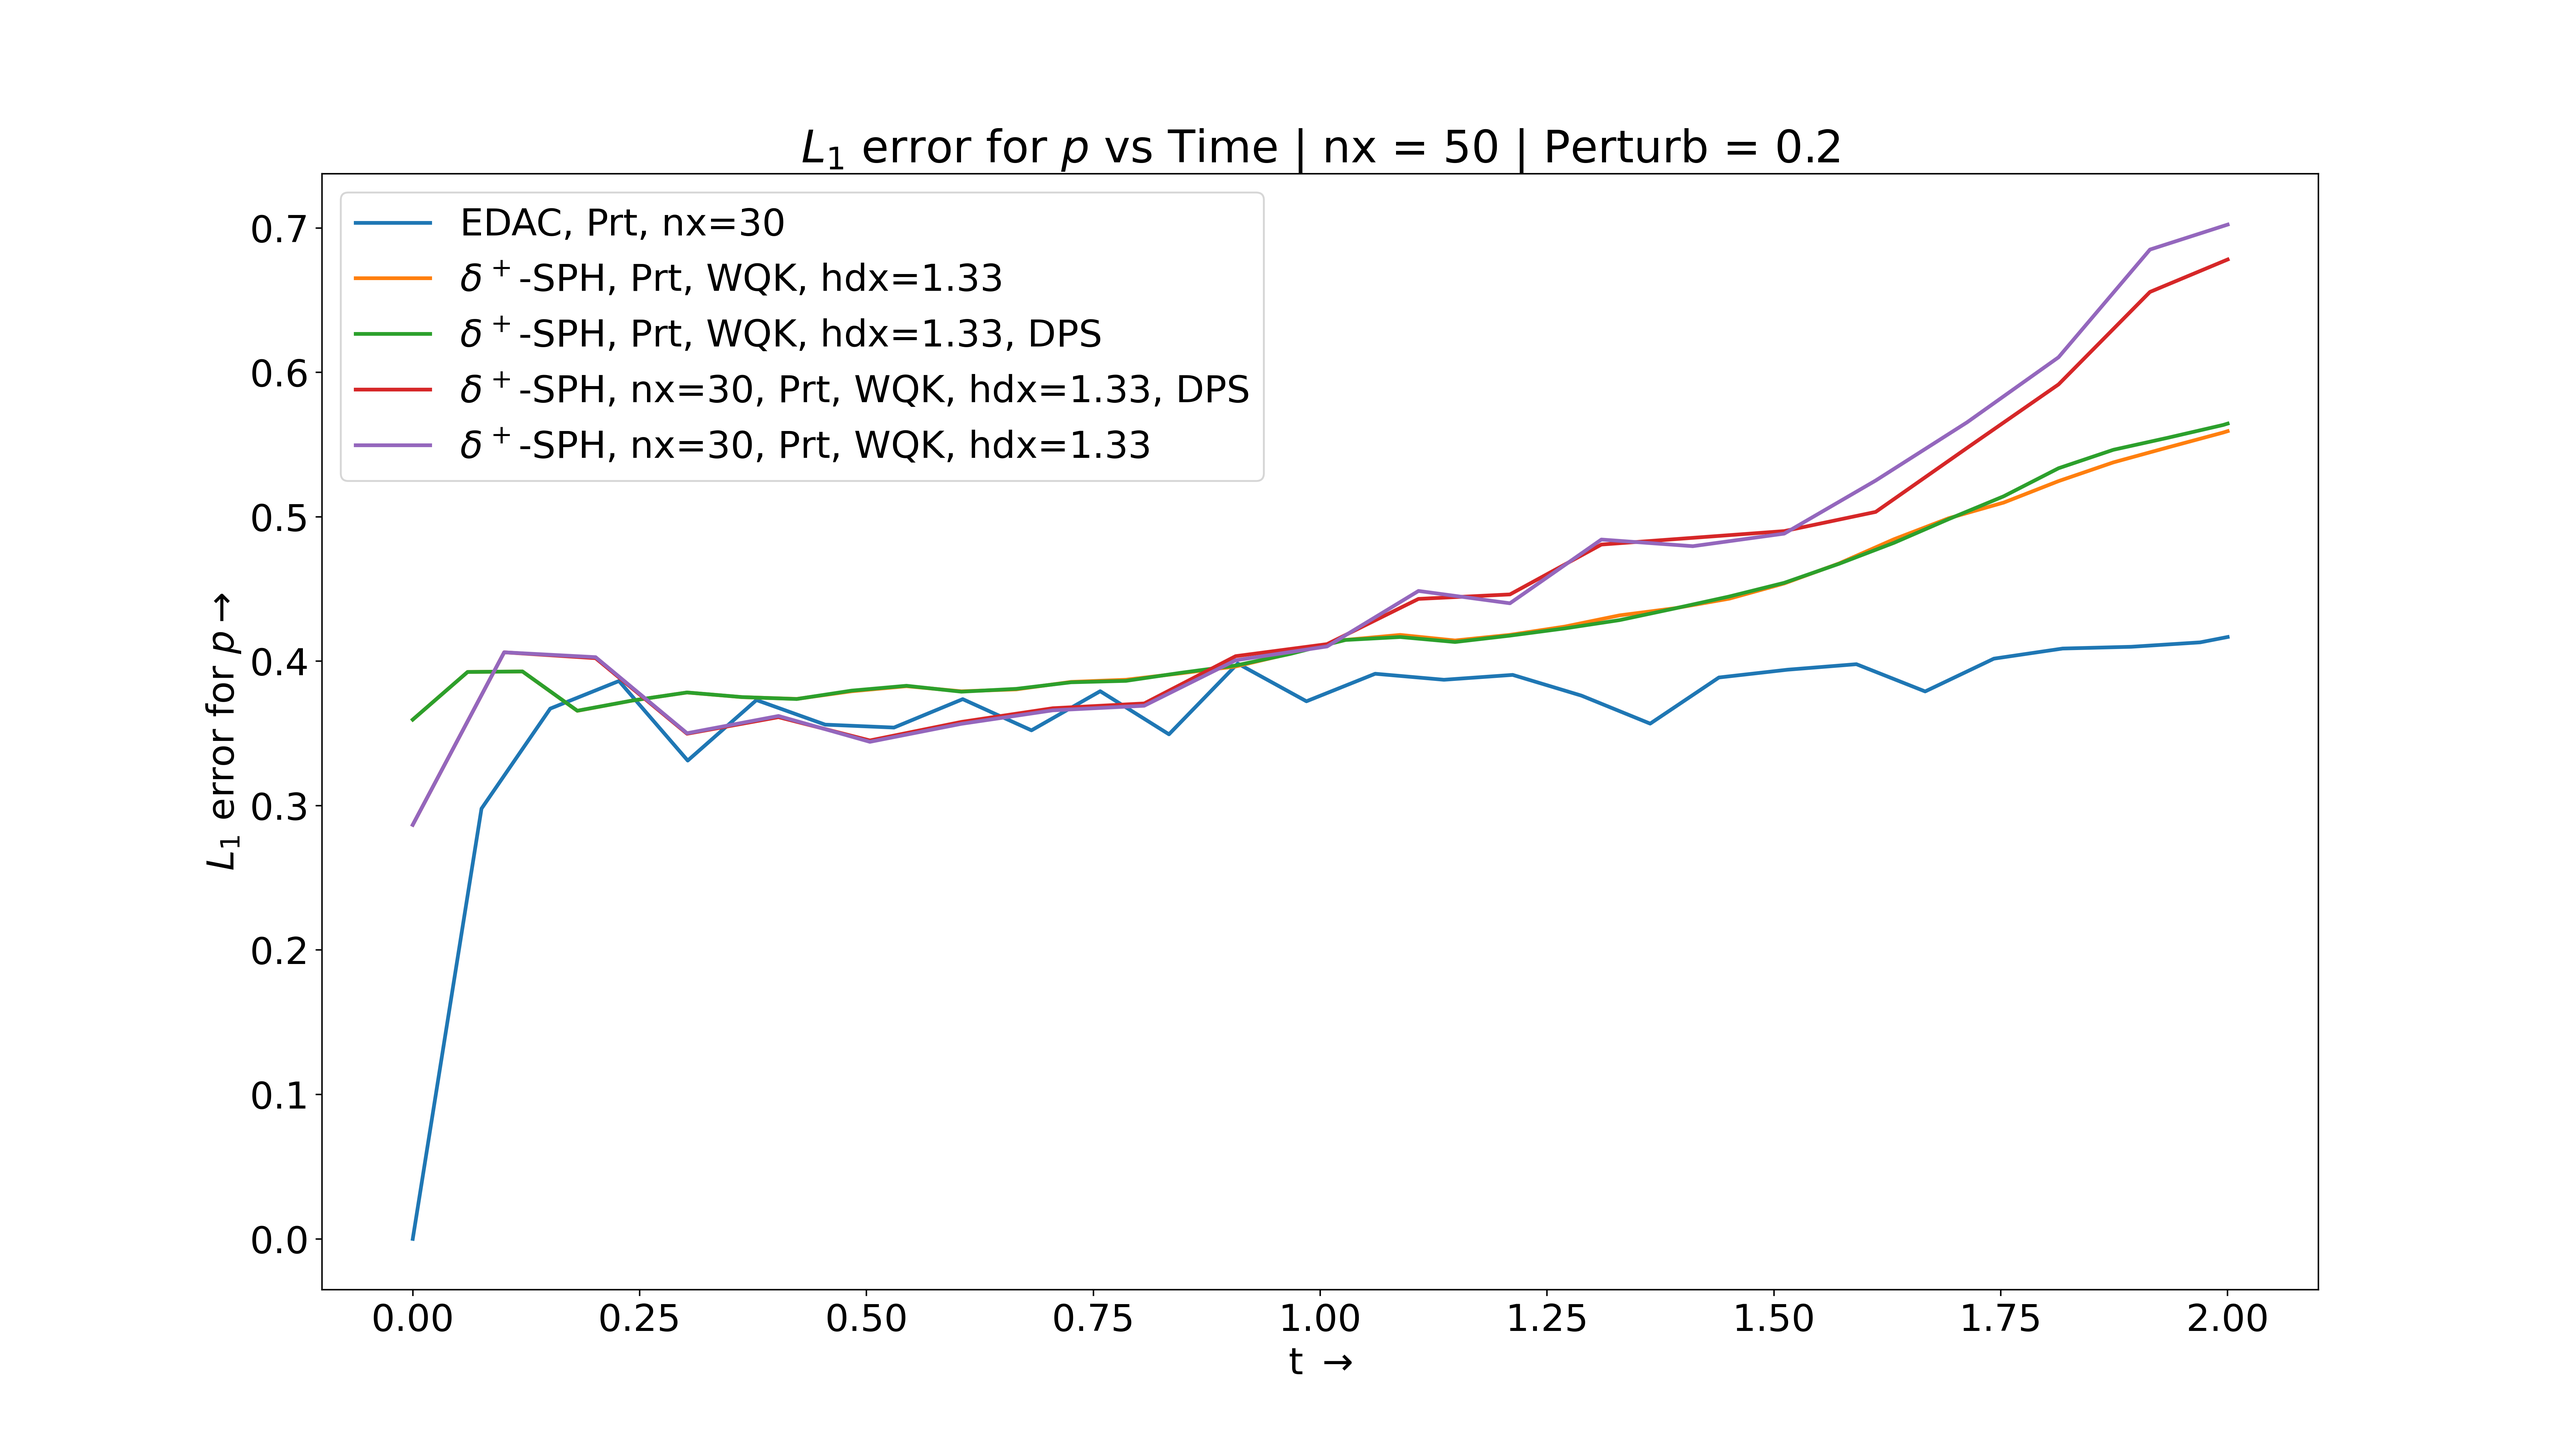
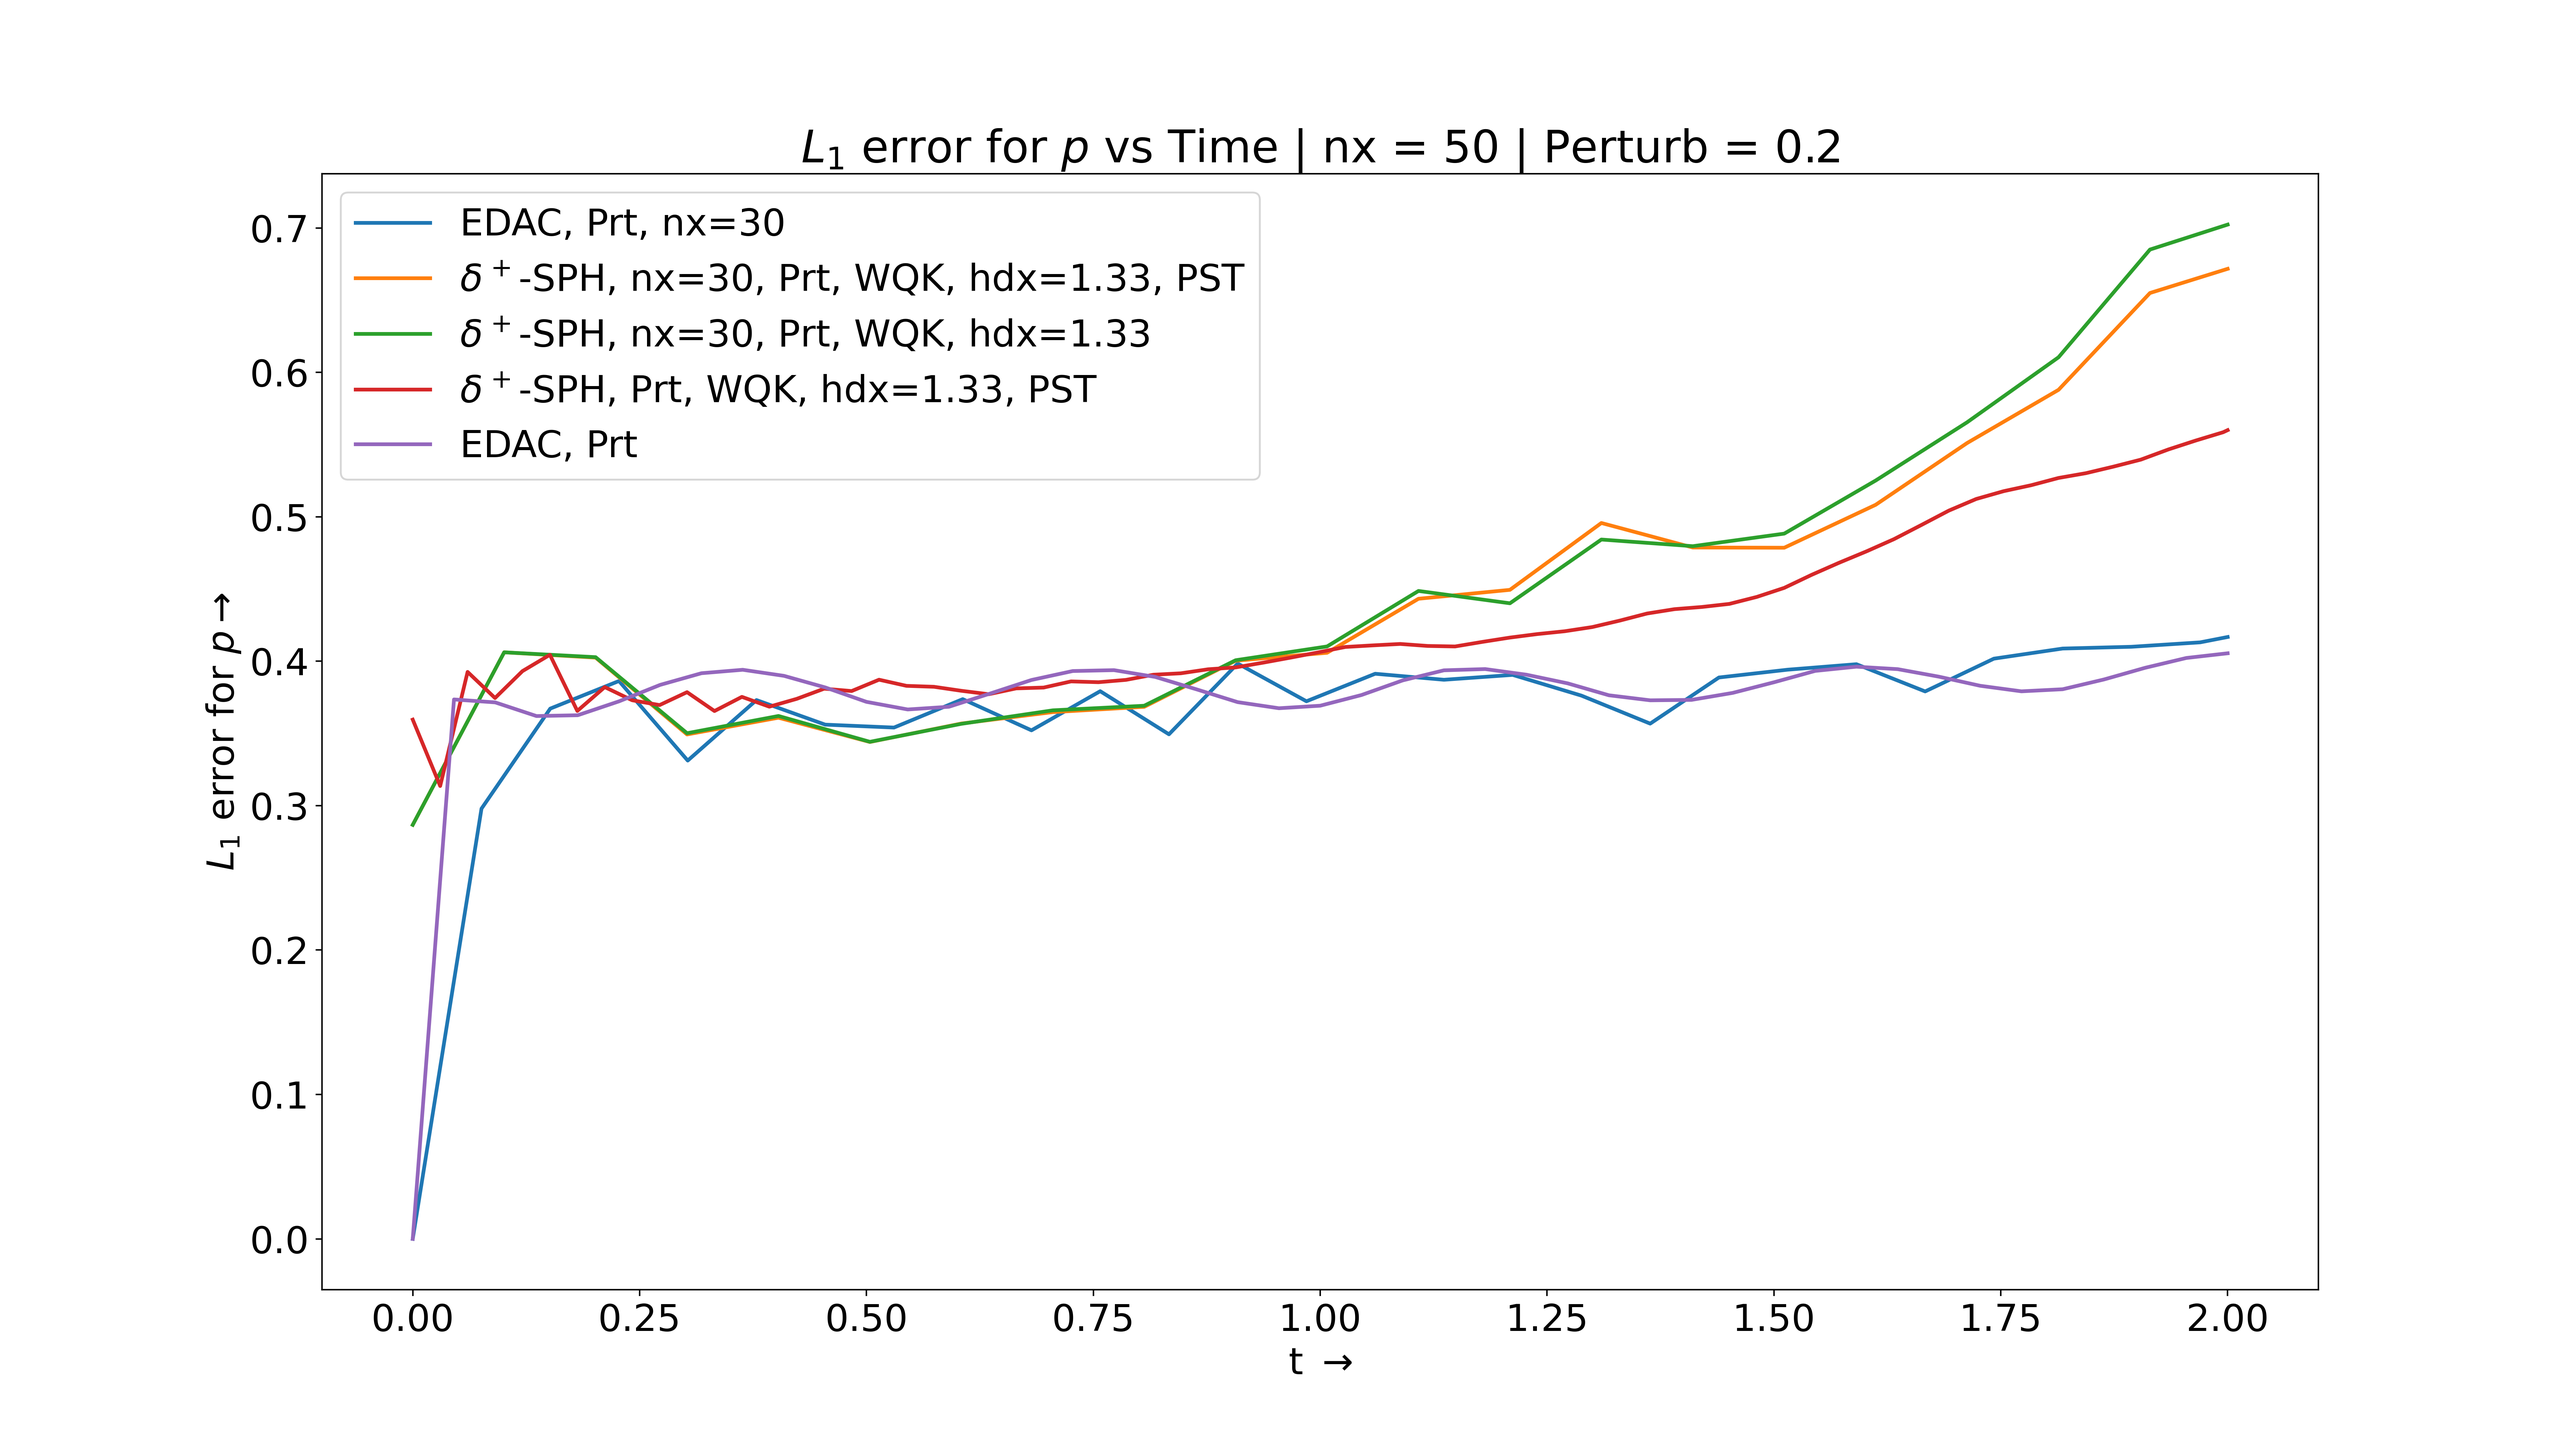
UPDATE: -------------- Fix PST

diff --git a/SLP/dpsph/equations.py b/SLP/dpsph/equations.py
@@ -203,7 +203,7 @@ class PST_PreStep_1(Equation):
 
 
 class PST_PreStep_2(Equation):
-    def __init__(self, dest, sources, dim):
+    def __init__(self, dest, sources, dim, H):
         r'''
             Parameters:
             -----------
@@ -213,26 +213,42 @@ class PST_PreStep_2(Equation):
         '''       
             
         self.dim = dim
+        self.H = H
         super(PST_PreStep_2, self).__init__(dest, sources)
 
     def initialize(self, d_idx, d_gradlmda):
         d_gradlmda[d_idx*3 + 0] = 0.0
         d_gradlmda[d_idx*3 + 1] = 0.0
         d_gradlmda[d_idx*3 + 2] = 0.0
+    def loop_all(
+        self, d_idx, d_x, d_y, d_z, d_lmda, d_gradlmda, s_x, s_y, s_z, s_rho, 
+        s_m, s_lmda, SPH_KERNEL, NBRS, N_NBRS
+    ):
+        n, i, j = declare('int', 3)
+        n = self.dim
+        s_idx = declare('long')
+        xij = declare('matrix(3)')
+        dwij = declare('matrix(3)')
 
-    def loop(self, d_idx, s_idx, d_lmda, d_gradlmda, s_rho, s_m, s_lmda, DWIJ):
-
-        Vj = s_m[s_idx]/s_rho[s_idx]
         lmdai = d_lmda[d_idx]
-        lmdaj = s_lmda[s_idx]
+        for i in range(N_NBRS):
+            s_idx = NBRS[i]
 
-        lmdaij = (lmdai - lmdaj)
+            Vj = s_m[s_idx]/s_rho[s_idx]
+            lmdaj = s_lmda[s_idx]
 
-        # renormalized density of eqn (5a)
-        d_gradlmda[d_idx*3 + 0] += lmdaij * DWIJ[0] * Vj
-        d_gradlmda[d_idx*3 + 1] += lmdaij * DWIJ[1] * Vj
-        d_gradlmda[d_idx*3 + 2] += lmdaij * DWIJ[2] * Vj
+            lmdaij = (lmdai - lmdaj)
+            xij[0] = d_x[d_idx] - s_x[s_idx]
+            xij[1] = d_y[d_idx] - s_y[s_idx]
+            xij[2] = d_z[d_idx] - s_z[s_idx]
+            rij = sqrt(xij[0]*xij[0] + xij[1]*xij[1] + xij[2]*xij[2])
 
+            # Calculate Kernel gradient value
+            SPH_KERNEL.gradient(xij, rij, self.H, dwij)
+
+            # Grad Lambda value
+            for j in range(n):
+                d_gradlmda[d_idx*3 + j] += lmdaij * dwij[j] * Vj
 
 class PST(Equation):
     r"""*Particle-Shifting Technique employed in
@@ -366,21 +382,22 @@ class PST(Equation):
     def loop_all(
         self, d_idx, d_x, d_y, d_z, d_rho, d_delta_s, d_DX, d_DY, d_DZ, d_DRh, 
         d_lmda, d_gradlmda, s_x, s_y, s_z, s_rho, s_m, SPH_KERNEL, NBRS, 
-        N_NBRS, 
+        N_NBRS, EPS
     ):
-        i, n, j = declare('int', 3)
+        n, i, j, k = declare('int', 4)
         n = self.dim
-
         s_idx = declare('long')
         xij = declare('matrix(3)')
         dwij = declare('matrix(3)')
         ni = declare('matrix(3)')
         deltaR = declare('matrix(3)')
-        M = declare('matrix(3,3)')
         res = declare('matrix(3)')
+        gradlmda_i = declare('matrix(3)')
+        M = declare('matrix(3,3)')
 
         for j in range(3):
             deltaR[j] = 0.0
+            gradlmda_i[j] = d_gradlmda[d_idx*3 + j]
 
         rhoi = d_rho[d_idx]
         lmdai = d_lmda[d_idx]
@@ -392,7 +409,7 @@ class PST(Equation):
 
             # Calculate W(\delta s) value
             delta_s = d_delta_s[d_idx]
-            w_delta_s = SPH_KERNEL.kernel(xij, delta_s, self.H)
+            w_delta_s = SPH_KERNEL.kernel(xij, delta_s, self.H) 
 
             for i in range(N_NBRS):
                 s_idx = NBRS[i]
@@ -414,10 +431,10 @@ class PST(Equation):
                 ################################################################
 
                 # Calcuate fij
-                fij = self.R_coeff * pow((wij/w_delta_s), self.n_exp)
+                fij = self.R_coeff * pow((wij/(EPS+w_delta_s)), self.n_exp)
 
                 # Calcuate multiplicative factor
-                fac = (1.0 + fij)*(mj/(rhoi+rhoj))
+                fac = (1.0 + fij)*(mj/(rhoi+rhoj+EPS))
 
                 # Sum \delta r_i
                 for j in range(n):
@@ -431,9 +448,9 @@ class PST(Equation):
 
                 if rh > self.Rh:
                     # Check Rh condition
-                    d_DX[d_idx] = 0.0
-                    d_DY[d_idx] = 0.0
-                    d_DZ[d_idx] = 0.0
+                    #d_DX[d_idx] = 0.0
+                    #d_DY[d_idx] = 0.0
+                    #d_DZ[d_idx] = 0.0
                     if self.saveAllDRh == True:    
                         d_DRh[d_idx] = rh
                 else:
@@ -447,17 +464,17 @@ class PST(Equation):
                 # Case - 2
                 ##################
 
-                ni_norm = sqrt(d_gradlmda[0]*d_gradlmda[0] + d_gradlmda[1]*d_gradlmda[1] + d_gradlmda[2]*d_gradlmda[2])
+                ni_norm = sqrt(gradlmda_i[0]*gradlmda_i[0] + gradlmda_i[1]*gradlmda_i[1] + gradlmda_i[2]*gradlmda_i[2])
 
                 for j in range(n):
-                    ni[j] = d_gradlmda[j]/ni_norm
+                    ni[j] = gradlmda_i[j] / (ni_norm + EPS)
                     res[j] = 0.0
 
                 for j in range(n):
                     for k in range(n):
                         M[j][k] = - ni[j]*ni[k]
                         if j == k:
-                            M[j][k] = 1 + M[j][k]
+                            M[j][k] += 1.0
 
 
                 for j in range(n):
@@ -471,11 +488,11 @@ class PST(Equation):
 
                 if rh > self.Rh:
                     # Check Rh condition
-                    d_DX[d_idx] = 0.0
-                    d_DY[d_idx] = 0.0
-                    d_DZ[d_idx] = 0.0
+                    #d_DX[d_idx] = 0.0
+                    #d_DY[d_idx] = 0.0
+                    #d_DZ[d_idx] = 0.0
                     if self.saveAllDRh == True:    
-                        d_DRh[d_idx] = rh
+                        d_DRh[d_idx] = ni_norm#rh
                 else:
                     d_DX[d_idx] = deltaR[0]
                     d_DY[d_idx] = deltaR[1]

diff --git a/SLP/Taylor Green Vortex/Taylor_Green-PySPH.py b/SLP/Taylor Green Vortex/Taylor_Green-PySPH.py
@@ -105,7 +105,7 @@ class Taylor_Green(Application):
 
         self.dt = min(dt_cfl, dt_viscous, dt_force)
         self.tf = 2.0
-        #self.tf = self.dt*70
+        #self.tf = self.dt*400
 
         # Print parameters
         print('dx : ', self.dx)
@@ -142,7 +142,7 @@ class Taylor_Green(Application):
         
         add_props = [
             'lmda', 'delta_s', 'rho0', 'u0', 'v0', 'w0', 'x0', 'y0', 'z0', 
-            'ax', 'ay', 'az', 'DRh', 'DY', 'DX', 'DZ'
+            'ax', 'ay', 'az', 'DRh', 'DY', 'DX', 'DZ',
         ]
         for i in add_props:
             pa_fluid.add_property(i)
@@ -233,7 +233,7 @@ class Taylor_Green(Application):
                 
                 IsothermalEOS(dest='fluid', sources=['fluid'], rho0=self.rho0, c0=self.c0, p0=0.0),
                 GradientCorrectionPreStep(dest='fluid', sources=['fluid'], dim=2),
-                PST_PreStep_1(dest='fluid', sources=['fluid'], dim=2),
+                #PST_PreStep_1(dest='fluid', sources=['fluid'], dim=2),
                 AverageSpacing(dest='fluid', sources=['fluid'], dim=2),
             
             ],real=False
@@ -243,11 +243,8 @@ class Taylor_Green(Application):
 
                 GradientCorrection(dest='fluid', sources=['fluid'], dim=2, tol=0.1), 
                 ContinuityEquationDeltaSPHPreStep(dest='fluid', sources=['fluid']),
-                PST_PreStep_2(dest='fluid', sources=['fluid'], dim=2),
-                PST(
-                    dest='fluid', sources=['fluid'], dim=2, H=self.h0, 
-                    Uc0=self.c0, Rh=0.05, saveAllDRh=False
-                ),
+                #PST_PreStep_2(dest='fluid', sources=['fluid'], dim=2, H=self.h0),
+                #PST(dest='fluid', sources=['fluid'], dim=2, H=self.h0, Uc0=self.c0, Rh=0.075, saveAllDRh=False),
             
             ],real=True
             ),

diff --git a/SLP/Taylor Green Vortex/plot_pysph_testing.py b/SLP/Taylor Green Vortex/plot_pysph_testing.py
@@ -9,7 +9,8 @@ plt.rcParams.update({'font.size': 20})
 file_base = '/home/prajwal/Desktop/Winter_Project/SLP-Smoothed-Particle-Hydrodynamics/SLP/Taylor Green Vortex/PySPH-Testing/'
 
 
-sph_schm = ['14', '16', '17', '18', '19']#['01', '08', '03', '07', '16', '17']
+sph_schm = ['08', '03', '16', '17', '14', '18', '19']
+sph_schm = ['14', '18', '19', '17', '08']
 
 sph_schm_legend = {
     '00':  r'$\delta$-SPH', '01': r'$\delta$-SPH, Prt', '02': 'DPSPH-SPH', 
@@ -20,8 +21,8 @@ sph_schm_legend = {
     '12': r'$\delta^+$-SPH, Prt, nx=30', '13': r'$\delta$-SPH, Prt, nx=30', 
     '14': 'EDAC, Prt, nx=30', '15':  r'$\delta^+$-SPH, Prt, WQK, hdx=2',
     '16': r'$\delta^+$-SPH, Prt, WQK, hdx=1.33', 
-    '17': r'$\delta^+$-SPH, Prt, WQK, hdx=1.33, DPS',
-    '18': r'$\delta^+$-SPH, nx=30, Prt, WQK, hdx=1.33, DPS',
+    '17': r'$\delta^+$-SPH, Prt, WQK, hdx=1.33, PST',
+    '18': r'$\delta^+$-SPH, nx=30, Prt, WQK, hdx=1.33, PST',
     '19': r'$\delta^+$-SPH, nx=30, Prt, WQK, hdx=1.33',
     '20': 'Check1', '21': 'Check2'
     }
